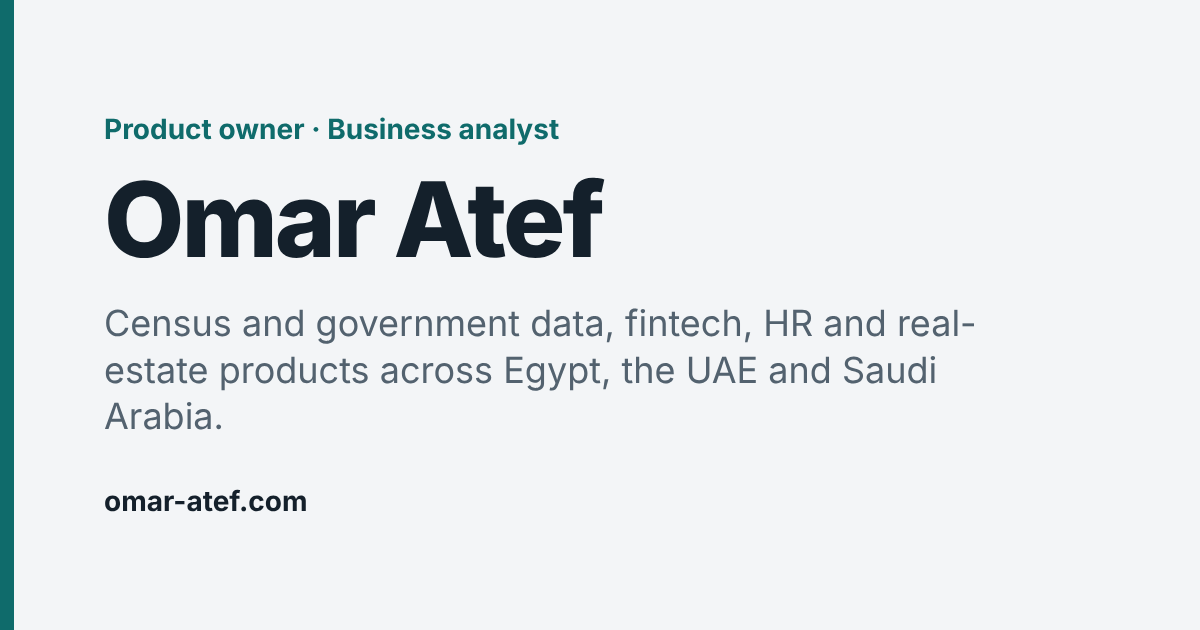
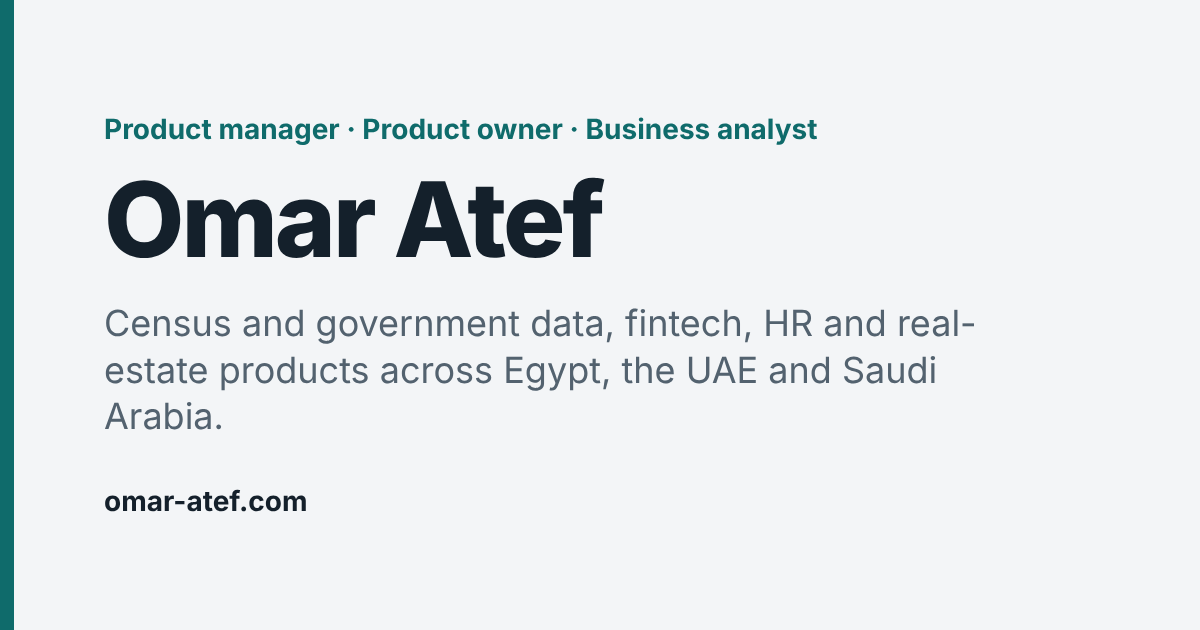
Put product manager first, add UAE government work card, show 10+ products
Claude-Session: https://claude.ai/code/session_012Dt3fPfehqE2KRP9ZHrPjd

Changed region(s): [[0.185, 0.181, 0.6783, 0.2413]]

diff --git a/index.html b/index.html
@@ -3,15 +3,15 @@
 <head>
   <meta charset="UTF-8" />
   <meta name="viewport" content="width=device-width, initial-scale=1.0" />
-  <meta name="description" content="Omar Atef is a product owner and business analyst in Cairo. He is currently on CountBig, a census and government-data platform used in Egypt and the UAE, and has also built products in fintech, HR and real estate." />
-  <meta property="og:title" content="Omar Atef | Product Owner & Business Analyst" />
-  <meta property="og:description" content="Product owner and business analyst in Cairo. Census and government data, fintech, HR and real-estate products across Egypt, the UAE and Saudi Arabia." />
+  <meta name="description" content="Omar Atef is a product manager, product owner and business analyst in Cairo. He is currently on CountBig, a census and government-data platform used in Egypt and the UAE, and has also built products in fintech, HR and real estate." />
+  <meta property="og:title" content="Omar Atef | Product Manager, Product Owner & Business Analyst" />
+  <meta property="og:description" content="Product manager, product owner and business analyst in Cairo. Census and government data, fintech, HR and real-estate products across Egypt, the UAE and Saudi Arabia." />
   <meta property="og:type" content="website" />
   <meta property="og:image" content="https://omar-atef.com/og-image.png" />
   <meta name="twitter:card" content="summary_large_image" />
   <meta property="og:url" content="https://omar-atef.com/" />
   <meta name="theme-color" content="#f3f5f7" />
-  <title>Omar Atef | Product Owner & Business Analyst</title>
+  <title>Omar Atef | Product Manager, Product Owner & Business Analyst</title>
   <link rel="preconnect" href="https://fonts.googleapis.com">
   <link rel="preconnect" href="https://fonts.gstatic.com" crossorigin>
   <link href="https://fonts.googleapis.com/css2?family=Schibsted+Grotesk:wght@500;700;800&family=Source+Sans+3:wght@400;500;600;700&display=swap" rel="stylesheet">
@@ -34,7 +34,7 @@
       <div class="container hero-grid">
         <div class="hero-copy-wrap">
           <div class="availability-pill"><span class="status-dot"></span>Open to full-time roles, freelance and consulting</div>
-          <p class="eyebrow">Product owner · Business analyst</p>
+          <p class="eyebrow">Product manager · Product owner · Business analyst</p>
           <h1>Omar Atef</h1>
           <h2>I turn messy business requirements into <span>products a team can actually build.</span></h2>
           <p class="hero-copy">I'm the product owner on CountBig at Link Development, a census and data platform for government statistics bodies in Egypt and the UAE. Before that I worked on an AI risk-assessment tool for a Saudi fintech, an HR platform from first idea to launch, and a real-estate marketplace in Saudi Arabia.</p>
@@ -49,11 +49,11 @@
         <aside class="photo-column">
           <div class="photo-shell">
             <img class="profile-photo" src="profile.png" alt="Omar Atef" onerror="this.onerror=null;this.src='profile-placeholder.svg';" />
-            <div class="photo-caption"><strong>Omar Atef</strong><span>Product Owner</span></div>
+            <div class="photo-caption"><strong>Omar Atef</strong><span>Product Manager · Product Owner</span></div>
           </div>
           <div class="mini-proof">
             <div><strong>Since 2019</strong><span>in tech, starting as an AI and programming instructor</span></div>
-            <div><strong>3+ years</strong><span>as a product owner and business analyst</span></div>
+            <div><strong>3+ years</strong><span>in product management, ownership and business analysis</span></div>
           </div>
         </aside>
       </div>
@@ -72,7 +72,7 @@
       <div class="container about-grid">
         <div><p class="section-tag">About</p><h3>I sit between the business and the developers.</h3></div>
         <div class="about-copy">
-          <p>I'm a product owner and business analyst with a Computer Science and AI degree from Cairo University. Most of my day is spent talking to the people who know the business problem, working out what they actually need, and writing it down so developers, designers and testers all read it the same way.</p>
+          <p>I work as a product manager, product owner and business analyst, with a Computer Science and AI degree from Cairo University. Most of my day is spent talking to the people who know the business problem, working out what they actually need, and writing it down so developers, designers and testers all read it the same way.</p>
           <p>I started in 2019, while still a student, teaching AI and programming and leading a small team of instructors. Business analysis came next, then product ownership. Having taught the technical side helps: I can follow what the engineers are saying and ask better questions.</p>
           <p>The work I enjoy most is the unclear start of a project, when nobody has agreed yet on scope, priorities or what "done" means.</p>
         </div>
@@ -91,19 +91,19 @@
           <article class="service-card"><h4>AI and automation features</h4><p>Scoping features such as OCR and document processing into plain use cases, requirements and priorities that data scientists and developers can build from.</p></article>
           <article class="service-card"><h4>Research and product decisions</h4><p>Client feedback, competitor analysis and KPIs, summarised into recommendations on what to build, change or drop next.</p></article>
         </div>
-        <div class="role-note"><span>Roles I'm looking at:</span><strong>Product Owner</strong><strong>Product Manager</strong><strong>Business Analyst</strong><strong>Freelance product / BA projects</strong><strong>Consulting</strong></div>
+        <div class="role-note"><span>Roles I'm looking at:</span><strong>Product Manager</strong><strong>Product Owner</strong><strong>Business Analyst</strong><strong>Freelance product / BA projects</strong><strong>Consulting</strong></div>
       </div>
     </section>
 
     <section class="section alt" id="work">
       <div class="container">
         <p class="section-tag">Featured Work</p>
-        <div class="section-heading"><div><h3>Four products I've worked on.</h3></div><p>Client details are kept general where the work is confidential.</p></div>
+        <div class="section-heading"><div><h3>Selected work from 10+ products.</h3></div><p>I've worked on more than ten products. These are the ones I'd put my name on. Client details are kept general where the work is confidential.</p></div>
         <div class="project-grid">
           <article class="project-card"><div class="project-top"><span class="project-sector">Government · Data</span></div><h4>CountBig: census and government data platform</h4><p>A platform used for government and statistical projects in Egypt and the UAE. I own its delivery and enhancements, including the requirements for Egypt's 2027 Census work with CAPMAS and UAE implementations that have to follow local regulations.</p><div class="project-detail"><span>What I do</span><p>Write requirements for data collection, validation and reporting, turn them into user stories, and act as the main contact between the stakeholders and the development team.</p></div><div class="tags"><span>Product Ownership</span><span>Government</span><span>Data</span><span>Requirements</span></div></article>
           <article class="project-card featured-card"><div class="project-top"><span class="project-sector">Fintech · AI</span></div><h4>Lameh automation tool</h4><p>A part-time product owner role for a Saudi fintech. The tool took a financial risk assessment that used to take 30–45 days and brought it down to a few days.</p><div class="impact-box"><strong>30–45 days → a few days</strong><span>Risk assessment time</span></div><div class="project-detail"><span>What I did</span><p>Decided the order of the AI features (OCR, financial-document processing, sentiment analysis, sanctions screening), using client feedback, and worked with data scientists, finance analysts and the integration team.</p></div><div class="tags"><span>AI</span><span>OCR</span><span>Automation</span><span>Fintech</span></div></article>
           <article class="project-card"><div class="project-top"><span class="project-sector">SaaS · HR</span></div><h4>Synworks HR platform</h4><p>Took this HR platform from the first idea to launch at TDS, deciding what went into the first release based on business requirements and what the market needed.</p><div class="project-detail"><span>Modules I defined</span><p>Employee management, recruitment, payroll and performance management.</p></div><div class="tags"><span>0→1 Product</span><span>Roadmap</span><span>SaaS</span><span>Delivery</span></div></article>
-          <article class="project-card"><div class="project-top"><span class="project-sector">Real Estate · KSA</span></div><h4>Al Rajhi Real Estate</h4><p>Owned the roadmap and feature priorities for a Saudi real-estate platform at TDS, balancing what the business asked for with what the delivery team could ship.</p><div class="impact-box"><strong>5,000+ users</strong><span>200+ property listings</span></div><div class="tags"><span>Roadmap</span><span>Prioritization</span><span>Stakeholders</span><span>Research</span></div></article>
+          <article class="project-card"><div class="project-top"><span class="project-sector">Government · UAE</span></div><h4>UAE government and statistics work</h4><p>CountBig implementations for UAE government bodies: FCSC, NCSCR and Sharjah, alongside Dubai Data &amp; State Establishment. Each one has its own regulations and business requirements, so the product has to be aligned with them locally.</p><div class="project-detail"><span>What I do</span><p>Manage the implementation and enhancements, and translate each body's requirements into backlog items the development team can build.</p></div><div class="tags"><span>FCSC</span><span>NCSCR</span><span>Sharjah</span><span>Dubai Data &amp; State Establishment</span></div></article>
         </div>
       </div>
     </section>
@@ -191,13 +191,13 @@
 
     <section class="section contact-section" id="contact">
       <div class="container contact-card">
-        <div><p class="section-tag">Work With Me</p><h3>Got a product to define or a team to join?</h3><p>I'm looking for full-time product owner, product manager or business analyst roles, and I also take freelance, part-time and consulting work. Email is the fastest way to reach me.</p><div class="contact-meta"><span>Cairo, Egypt</span><span>Available remotely</span><span>+20 102 907 8194</span></div></div>
+        <div><p class="section-tag">Work With Me</p><h3>Got a product to define or a team to join?</h3><p>I'm looking for full-time product manager, product owner or business analyst roles, and I also take freelance, part-time and consulting work. Email is the fastest way to reach me.</p><div class="contact-meta"><span>Cairo, Egypt</span><span>Available remotely</span><span>+20 102 907 8194</span></div></div>
         <div class="contact-actions"><a class="btn primary" href="mailto:oatef971@gmail.com?subject=Product%20Opportunity%20for%20Omar%20Atef">Email me</a><a class="btn secondary" href="tel:+201029078194">Call: +20 102 907 8194</a><a class="btn secondary" href="https://www.linkedin.com/in/omar-atef-851647195" target="_blank" rel="noopener">LinkedIn ↗</a><a class="btn ghost" href="cv.pdf" target="_blank" rel="noopener">CV (PDF) ↗</a></div>
       </div>
     </section>
   </main>
 
-  <footer><div class="container footer-wrap"><div><strong>Omar Atef</strong><span>Product Owner · Business Analyst · Cairo</span></div><span>© <span id="year"></span> Omar Atef</span></div></footer>
+  <footer><div class="container footer-wrap"><div><strong>Omar Atef</strong><span>Product Manager · Product Owner · Business Analyst · Cairo</span></div><span>© <span id="year"></span> Omar Atef</span></div></footer>
   <script src="script.js"></script>
 </body>
 </html>
